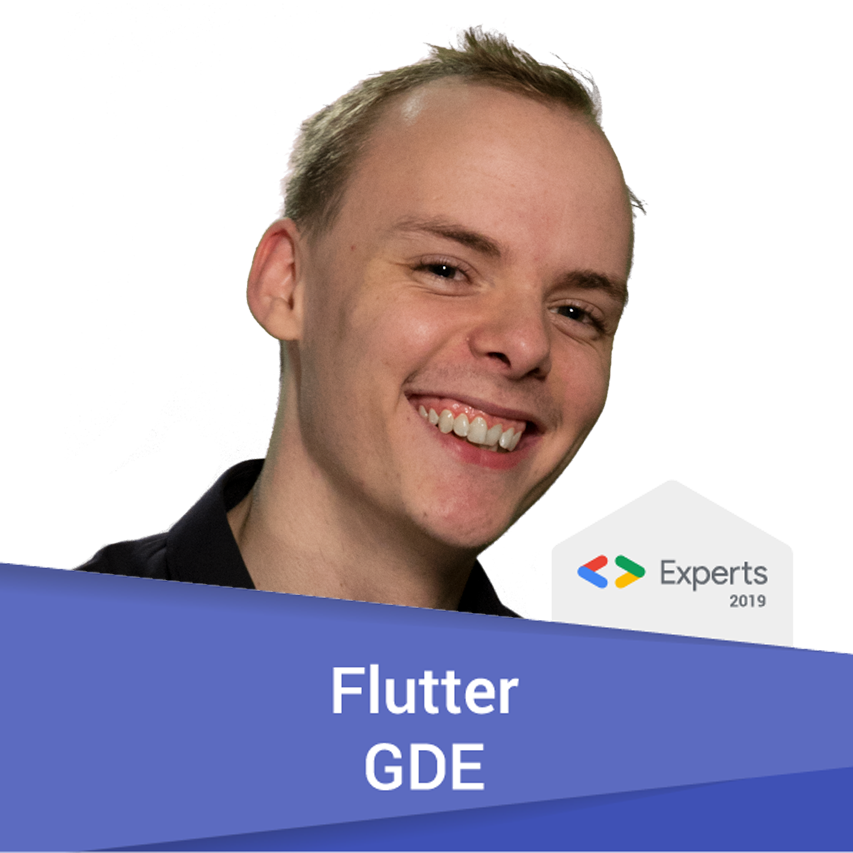
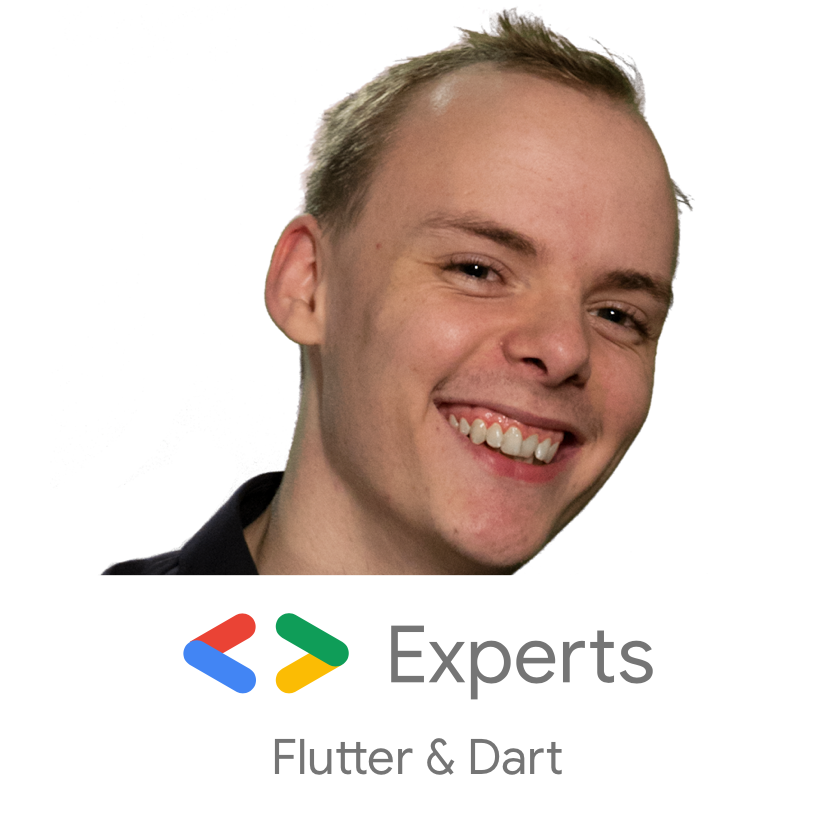
Update profile picture, enforce linter rules.

diff --git a/lib/ux/sections/welcome/introduction_header.dart b/lib/ux/sections/welcome/introduction_header.dart
@@ -34,7 +34,7 @@ class _IntroductionHeaderState extends AnimatableState<IntroductionHeader> {
     );
     _titleAnimation = CurvedAnimation(
       parent: baseAnimation,
-      curve: Interval(0.15, 1.0, curve: AppTheme.animationCurveDefault),
+      curve: const Interval(0.15, 1.0, curve: AppTheme.animationCurveDefault),
     );
   }
 
@@ -83,7 +83,7 @@ class _IntroductionHeaderState extends AnimatableState<IntroductionHeader> {
           },
           child: RichText(
             text: TextSpan(
-              style: TextStyle(
+              style: const TextStyle(
                 fontFamily: AppTheme.fontFamilyDefault,
                 color: AppTheme.colorTextSecondary,
                 fontSize: 100,

diff --git a/lib/ux/widgets/highlight_card.dart b/lib/ux/widgets/highlight_card.dart
@@ -31,14 +31,14 @@ class HighlightCard extends StatelessWidget {
                 if (model.title != null)
                   Text(
                     model.title,
-                    style: TextStyle(
+                    style: const TextStyle(
                       fontSize: 24.0,
                     ),
                   ),
                 if (model.description != null)
                   Text(
                     model.description,
-                    style: TextStyle(
+                    style: const TextStyle(
                       color: AppTheme.colorTextSecondary,
                       fontSize: 16.0,
                     ),

diff --git a/lib/models/config.dart b/lib/models/config.dart
@@ -2,7 +2,6 @@ import 'package:get_it/get_it.dart';
 import 'package:jfkdev/app_localization.dart';
 import 'package:jfkdev/utils/utils.dart';
 import 'package:meta/meta.dart';
-import 'package:yaml/yaml.dart';
 
 class Config {
   const Config._({
@@ -19,11 +18,6 @@ class Config {
 
   static Future<Config> parseYaml(String path) async {
     try {
-      // final yamlFile = await readAsset(path);
-      // final YamlMap yaml = loadYaml(yamlFile);
-
-      // Use yaml for config.
-
       final url = getCurrentUrl();
       final preferredLocale = url.queryParameters['lang'] ?? getBrowserLanguage().split('-').first;
 

diff --git a/lib/app_localization.dart b/lib/app_localization.dart
@@ -1,4 +1,3 @@
-import 'package:flutter/foundation.dart';
 import 'package:get_it/get_it.dart';
 import 'package:jfkdev/models/config.dart';
 
@@ -55,7 +54,7 @@ abstract class Localization {
   String get highlightSpeakerTitle => 'Speaker';
   String get highlightSpeakerDescription => 'Available for talks.';
 
-  String get businessInfo => 'JFK.DEV ・ Pleinweg 142C, 3083EP, Rotterdam\nKVK: 74990241 ・ VAT/BTW: NL230812910B01';
+  String get businessInfo => 'JFK.DEV ・ Pleinweg 142C, 3083EP, Rotterdam\nKVK: 74990241';
 
   @override
   int get hashCode => id.hashCode;

diff --git a/lib/ux/widgets/interactable.dart b/lib/ux/widgets/interactable.dart
@@ -1,4 +1,3 @@
-import 'package:flutter/gestures.dart';
 import 'package:flutter/material.dart';
 import 'package:jfkdev/utils/ux_utils.dart';
 import 'package:jfkdev/ux/models/ux_models.dart';
@@ -46,9 +45,9 @@ class Interactable extends StatelessWidget {
 
   @override
   Widget build(BuildContext context) {
-    return Listener(
-      onPointerEnter: (_) => _onInteractStart(),
-      onPointerExit: (_) => _onInteractEnd(),
+    return MouseRegion(
+      onEnter: (_) => _onInteractStart(),
+      onExit: (_) => _onInteractEnd(),
       child: child,
     );
   }

diff --git a/lib/ux/widgets/language_switcher.dart b/lib/ux/widgets/language_switcher.dart
@@ -27,9 +27,9 @@ class _LanguageSwitcherState extends State<LanguageSwitcher> {
 
   @override
   Widget build(BuildContext context) {
-    return Listener(
-      onPointerEnter: (_) => setCursor(CursorType.pointer),
-      onPointerExit: (_) => resetCursor(),
+    return MouseRegion(
+      onEnter: (_) => setCursor(CursorType.pointer),
+      onExit: (_) => resetCursor(),
       child: AnimatedSwitcher(
         switchInCurve: AppTheme.animationCurveDefault,
         switchOutCurve: AppTheme.animationCurveDefault.flipped,

diff --git a/lib/ux/sections/welcome/business_info.dart b/lib/ux/sections/welcome/business_info.dart
@@ -1,5 +1,3 @@
-import 'dart:async';
-
 import 'package:flutter/material.dart';
 import 'package:flutter/widgets.dart';
 import 'package:jfkdev/app_localization.dart';
@@ -32,6 +30,8 @@ class _BusinessInfoState extends AnimatableState<BusinessInfo> {
       },
       child: SelectableText(
         AppLocalization.instance.businessInfo,
+        maxLines: 2,
+        textAlign: TextAlign.center,
         style: const TextStyle(
           color: AppTheme.colorTextSecondary,
         ),

diff --git a/lib/ux/containers/main/main_container.dart b/lib/ux/containers/main/main_container.dart
@@ -55,7 +55,7 @@ class _MainContainerState extends State<MainContainer> with SingleTickerProvider
           controller: _scrollController,
           // physics: const BouncingScrollPhysics(),
           physics: const NeverScrollableScrollPhysics(),
-          children: <Widget>[
+          children: const <Widget>[
             WelcomeSection(showDownArrow: false),
             // AboutSection(),
           ],

diff --git a/lib/ux/widgets/jfk_icon_button.dart b/lib/ux/widgets/jfk_icon_button.dart
@@ -55,9 +55,9 @@ class _JfkIconButtonState extends State<JfkIconButton> {
 
   @override
   Widget build(BuildContext context) {
-    return Listener(
-      onPointerEnter: _onPointerEnter,
-      onPointerExit: _onPointerExit,
+    return MouseRegion(
+      onEnter: _onPointerEnter,
+      onExit: _onPointerExit,
       child: GestureDetector(
         onTap: _onTap,
         child: AnimatedOpacity(

diff --git a/lib/ux/sections/about/about_section.dart b/lib/ux/sections/about/about_section.dart
@@ -5,10 +5,10 @@ import 'package:jfkdev/ux/widgets/fill_screen.dart';
 class AboutSection extends StatelessWidget {
   @override
   Widget build(BuildContext context) {
-    return FillScreen(
+    return const FillScreen(
       gradient: AppTheme.gradientDefault,
       child: Center(
-        child: const Text('About'),
+        child: Text('About'),
       ),
     );
   }

diff --git a/lib/utils/ux_utils.dart b/lib/utils/ux_utils.dart
@@ -1,10 +1,8 @@
 import 'dart:html' as html;
-import 'dart:js' as js;
 
 import 'package:flutter/animation.dart';
 import 'package:flutter/widgets.dart';
 import 'package:jfkdev/app_localization.dart';
-import 'package:jfkdev/models/config.dart';
 import 'package:jfkdev/theme.dart';
 import 'package:jfkdev/utils/utils.dart';
 import 'package:jfkdev/ux/models/ux_models.dart';

diff --git a/lib/theme.dart b/lib/theme.dart
@@ -26,7 +26,7 @@ class AppTheme {
 
   static const colorDefaultGradientOne = Colors.cyan;
   static const colorDefaultGradientTwo = colorGreen;
-  static final gradientDefault = LinearGradient(
+  static const gradientDefault = LinearGradient(
     colors: [colorDefaultGradientOne, colorDefaultGradientTwo],
     begin: Alignment.centerLeft,
     end: Alignment.centerRight,
